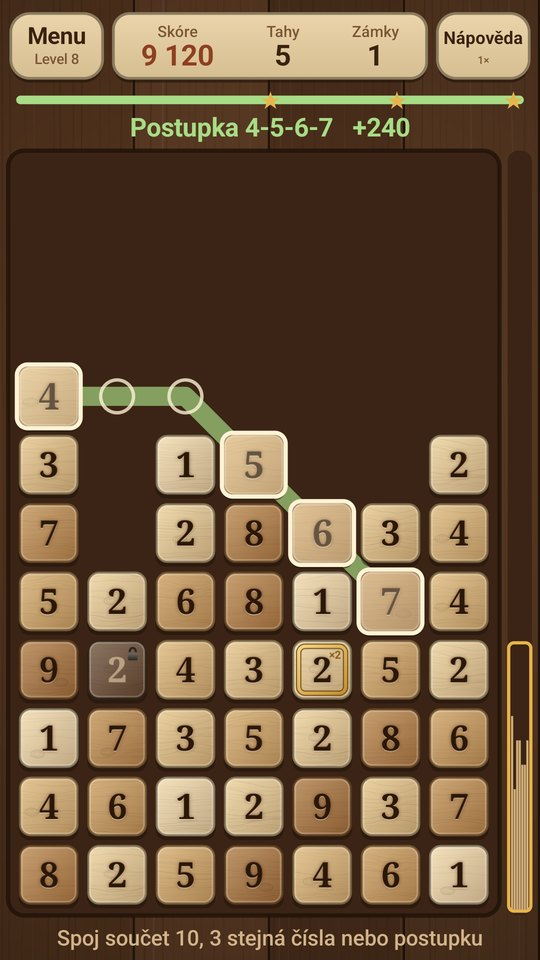
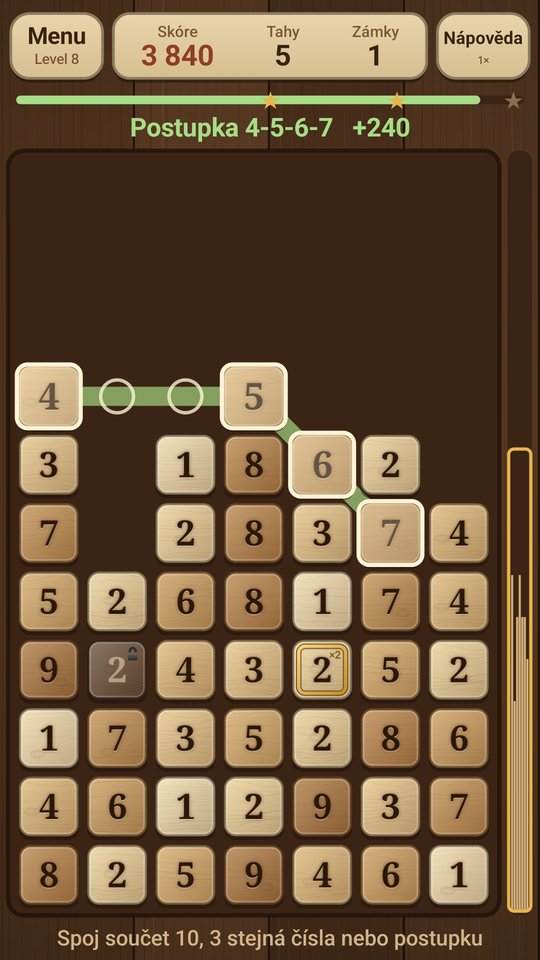
Jet Desítka 0.1.8: mezery jen po přímce, 15–20 tahů

Changed region(s): [[0.3259, 0.375, 1.0, 0.8125], [0.2667, 0.0312, 0.3556, 0.0938], [0.8889, 0.0938, 0.9778, 0.125]]

diff --git a/jetdesitka/index.html b/jetdesitka/index.html
@@ -93,7 +93,7 @@
         </div>
         <div class="card">
           <h3>Mezera jako žolík</h3>
-          <p>Jak věž ubývá, nahoře vznikají prázdná místa. Cesta přes ně může projít, klidně přes celé prázdné sloupce: 2 úplně vlevo a 8 úplně vpravo je pořád desítka. Mezera sama nic nepřičítá.</p>
+          <p>Jak věž ubývá, nahoře vznikají prázdná místa. Cesta přes ně může projít, klidně přes celé prázdné sloupce: 2 úplně vlevo a 8 úplně vpravo je pořád desítka. Přes mezery se ale jde jen rovně, vodorovně nebo šikmo. Mezera sama nic nepřičítá.</p>
         </div>
         <div class="card">
           <h3>Kaskády</h3>
@@ -121,7 +121,7 @@
         <div>
           <ul class="check">
             <li><b>60 levelů</b>: omezený počet tahů, cílové skóre a od čtvrtého levelu zámky. Za vyšší skóre jsou až tři hvězdy a splněný level odemkne další.</li>
-            <li><b>Denní výzva</b>: každý den nová věž, pro všechny hráče stejná, 60 tahů. Počítá se jen skóre a všichni mají stejná čísla, takže porovnání je férové.</li>
+            <li><b>Denní výzva</b>: každý den nová věž, pro všechny hráče stejná, 30 tahů. Počítá se jen skóre a všichni mají stejná čísla, takže porovnání je férové.</li>
             <li><b>Historie</b>: přehled dohraných her s datem, skóre a hvězdami.</li>
             <li><b>Nápověda</b>: třikrát za hru ukáže jednu dobrou cestu.</li>
           </ul>
@@ -129,10 +129,10 @@
         <div class="card">
           <h3>Hra v číslech</h3>
           <ul>
-            <li>Věž <b>7 sloupců, 27–34 řad</b></li>
+            <li>Věž <b>7 sloupců, 16–20 řad</b></li>
             <li>Levely <b>60, až 3 hvězdy</b></li>
-            <li>Tahů v levelu <b>30–40</b></li>
-            <li>Denní výzva <b>60 tahů, věž 48 řad</b></li>
+            <li>Tahů v levelu <b>15–20</b></li>
+            <li>Denní výzva <b>30 tahů, věž 27 řad</b></li>
             <li>Kaskády <b>×2, ×3, ×4…</b></li>
             <li>Reklamy a nákupy <b>žádné</b></li>
           </ul>
@@ -166,7 +166,7 @@
         <figure><img src="../assets/img/jetdesitka/uvod.jpg" width="540" height="960" loading="lazy" alt="Úvodní obrazovka s dřevěnými kostkami a tlačítkem Historie"><figcaption>Úvodní obrazovka</figcaption></figure>
         <figure><img src="../assets/img/jetdesitka/vez.jpg" width="540" height="960" loading="lazy" alt="Věž čísel, cesta 2 + 3 + 1 + 4 = 10 za 160 bodů"><figcaption>Desítka ve věži</figcaption></figure>
         <figure><img src="../assets/img/jetdesitka/dvojice.jpg" width="540" height="960" loading="lazy" alt="Cesta 7, 7, 2+5, 7 – čtyři sedmičky za 240 bodů"><figcaption>Sedmičky i s dvojicí</figcaption></figure>
-        <figure><img src="../assets/img/jetdesitka/mezera.jpg" width="540" height="960" loading="lazy" alt="Skoro vyčerpaná věž, postupka 4-5-6-7 vede přes dvě prázdná místa"><figcaption>Postupka přes mezery</figcaption></figure>
+        <figure><img src="../assets/img/jetdesitka/mezera.jpg" width="540" height="960" loading="lazy" alt="Skoro vyčerpaná věž, postupka 4-5-6-7 vede rovně přes dvě prázdná místa"><figcaption>Postupka přes mezery</figcaption></figure>
         <figure><img src="../assets/img/jetdesitka/historie.jpg" width="540" height="960" loading="lazy" alt="Historie dohraných her se skóre a hvězdami"><figcaption>Historie her</figcaption></figure>
         <figure><img src="../assets/img/jetdesitka/vysledek.jpg" width="540" height="960" loading="lazy" alt="Splněný level se třemi hvězdami"><figcaption>Splněný level</figcaption></figure>
       </div>
